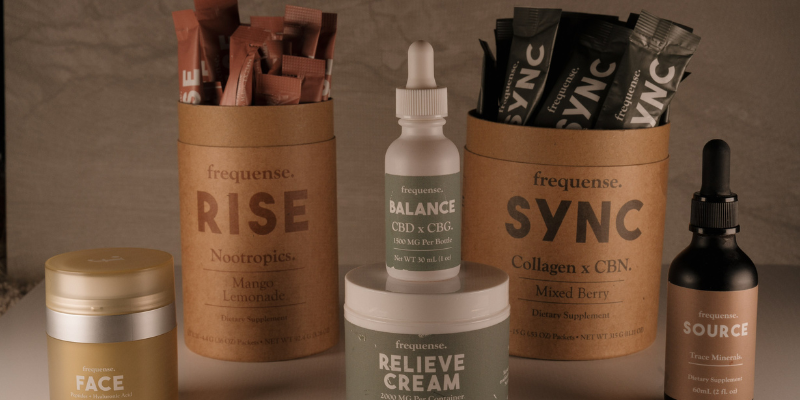
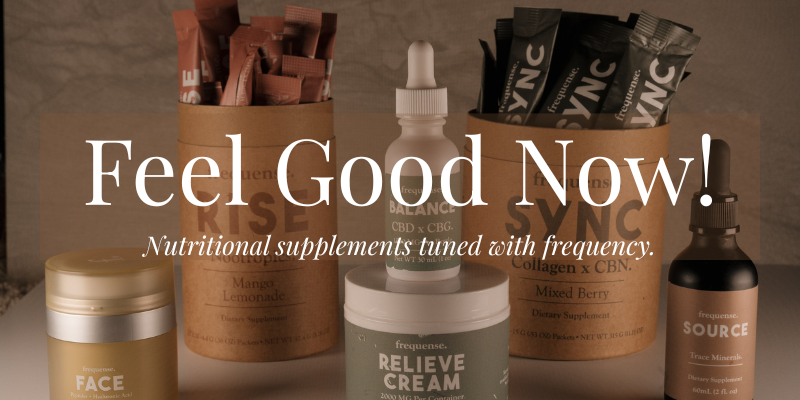
fixing photos and headers

diff --git a/index.html b/index.html
@@ -26,8 +26,6 @@
   <!-- Header / Hero Section -->
   <header class="hero hero-main">
     <div class="hero-content">
-      <!-- <h1>Feel Good Now!</h1>
-      <p>Nutritional supplements tuned with frequency.</p> -->
     </div>
   </header>
   

diff --git a/style.css b/style.css
@@ -25,7 +25,7 @@
   position: absolute;
   top: 0; left: 0;
   width: 100%; height: 100%;
-  background: rgba(0,0,0,0.4); /* overlay */
+  background: rgba(0,0,0,0.2); /* overlay */
 }
 
 .hero-content {
